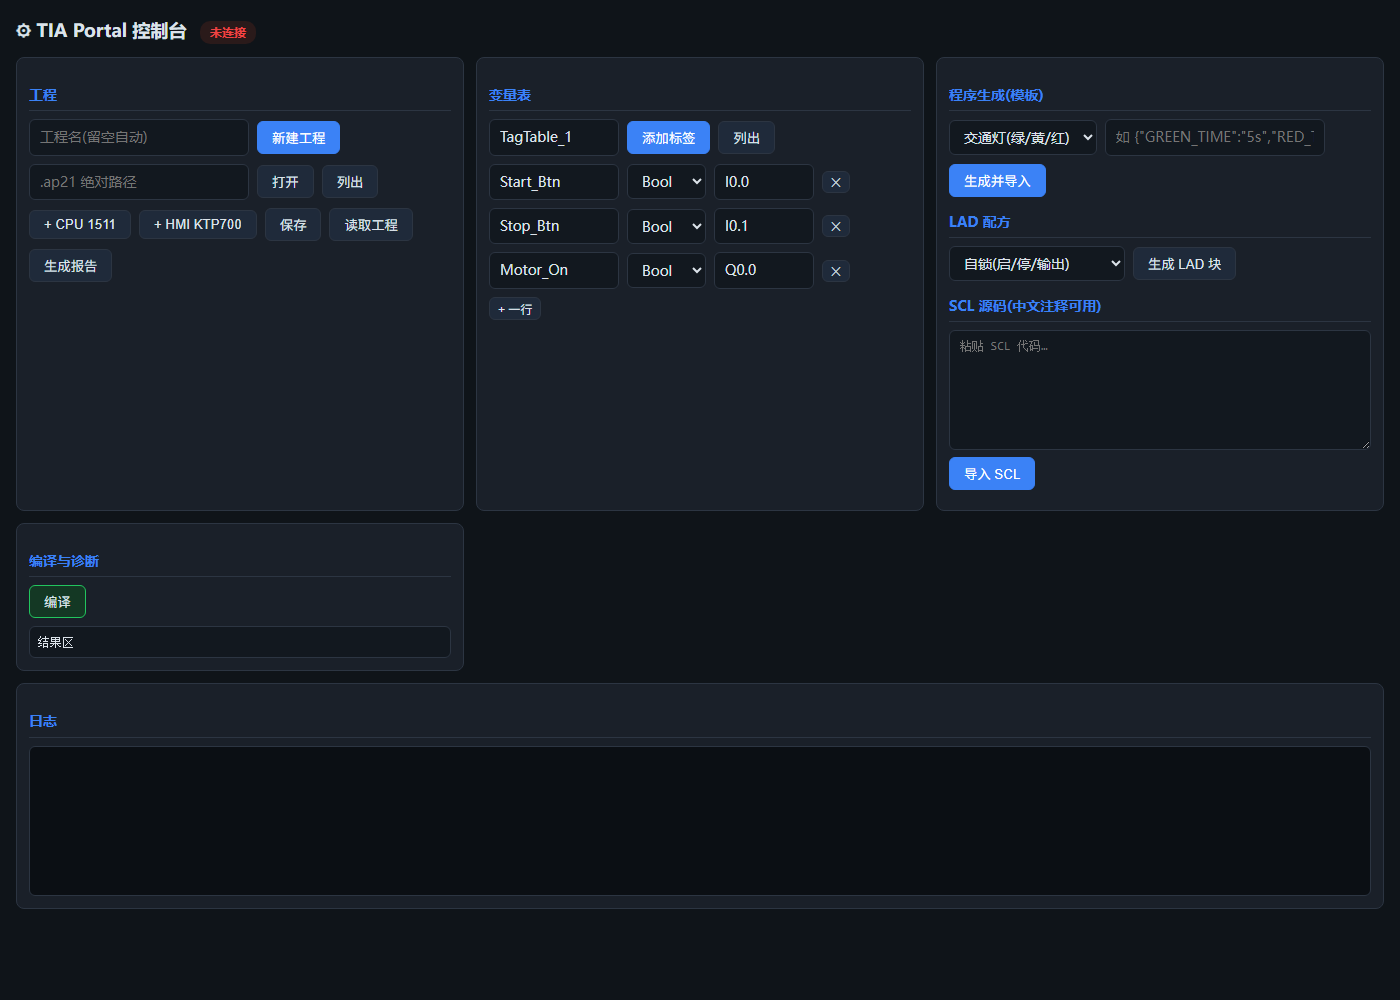
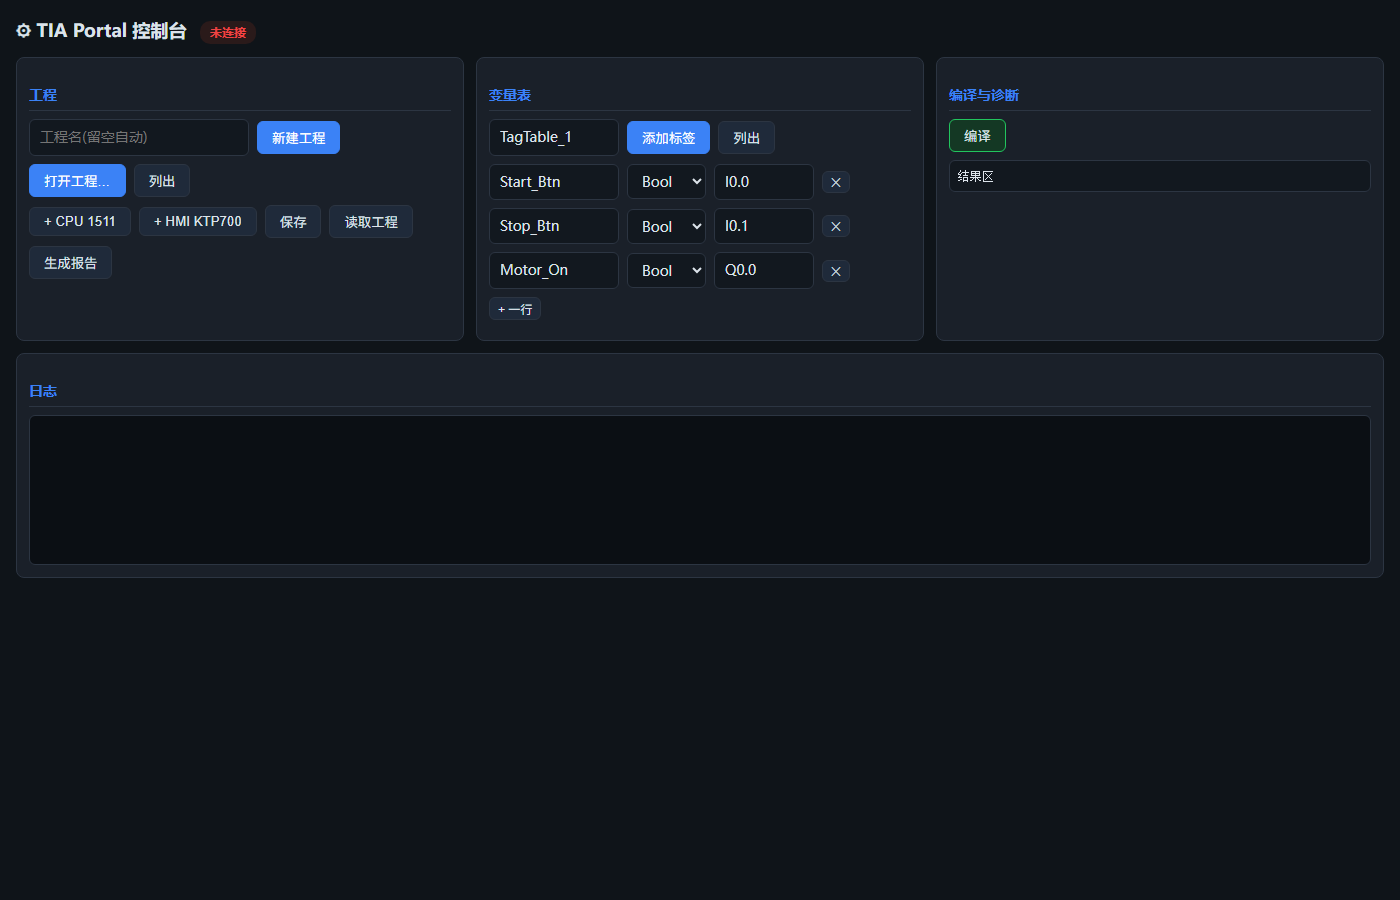
web: 面板人性化改造
- 去掉程序生成区(模板/LAD配方/SCL,交给 AI 会话)
- 打开工程改为文件选择对话框(上传到本机后打开)
- 新增 /api/upload 接口

diff --git a/web_ui/static/index.html b/web_ui/static/index.html
@@ -44,8 +44,8 @@
       <button class="primary" onclick="cmd('create-project',{projectName:val('projName'),outDir:OUT_DIR})">新建工程</button>
     </div>
     <div class="row">
-      <input id="projFile" placeholder=".ap21 绝对路径" class="wide">
-      <button onclick="cmd('open-project',{projectFile:val('projFile')})">打开</button>
+      <input type="file" id="projFilePicker" accept=".ap21" style="display:none">
+      <button class="primary" onclick="document.getElementById('projFilePicker').click()">打开工程…</button>
       <button onclick="cmd('list-projects',{})">列出</button>
     </div>
     <div class="row">
@@ -67,36 +67,6 @@
     </div>
     <div id="tagRows"></div>
     <div class="row"><button class="btn-mini" onclick="addTagRow()">+ 一行</button></div>
-  </div>
-
-  <!-- 程序生成 -->
-  <div class="panel">
-    <h2>程序生成(模板)</h2>
-    <div class="row">
-      <select id="tplSel">
-        <option value="traffic-light">交通灯(绿/黄/红)</option>
-        <option value="motor-rev">电机正反转互锁</option>
-        <option value="counter">计数分拣</option>
-      </select>
-      <input id="tplParams" placeholder='如 {"GREEN_TIME":"5s","RED_TIME":"8s"}' class="wide">
-      <button class="primary" onclick="genTemplate()">生成并导入</button>
-    </div>
-    <h2>LAD 配方</h2>
-    <div class="row">
-      <select id="ladRecipe">
-        <option value="self_lock">自锁(启/停/输出)</option>
-        <option value="blink">闪烁(使能/输出/周期)</option>
-        <option value="contact_coil">单触点输出</option>
-        <option value="set">置位</option>
-        <option value="reset">复位</option>
-        <option value="compare">比较</option>
-        <option value="arith">算术</option>
-      </select>
-      <button onclick="genLad()">生成 LAD 块</button>
-    </div>
-    <h2>SCL 源码(中文注释可用)</h2>
-    <textarea id="sclCode" placeholder="粘贴 SCL 代码…"></textarea>
-    <div class="row"><button class="primary" onclick="importScl()">导入 SCL</button></div>
   </div>
 
   <!-- 编译与读取 -->
@@ -163,35 +133,25 @@ async function addTags() {
   await cmd('add-tags', {table: val('tagTable'), tags});
 }
 
-async function genTemplate() {
-  let params = {};
-  try { params = JSON.parse(val('tplParams') || '{}'); } catch(e) {}
-  await cmd('gen-template', {template: val('tplSel'), params});
-}
-
-async function genLad() {
-  // 简化:自锁/闪烁走完整 spec,其余用配方网络
-  const recipe = val('ladRecipe');
-  let spec;
-  if (recipe === 'self_lock') {
-    spec = {type:'FB', name:'FB_SelfLock', number:21001, comment:'启停自锁', interface:{input:[{name:'bStart',datatype:'Bool'},{name:'bStop',datatype:'Bool'}],output:[{name:'qOut',datatype:'Bool'}]}, networks:[{title:'N1 自锁',recipe:'self_lock',args:{start:'bStart',stop:'bStop',output:'qOut'}}]};
-  } else if (recipe === 'blink') {
-    spec = {type:'FB', name:'FB_Blink', number:21002, comment:'LED 闪烁', interface:{input:[{name:'bEnable',datatype:'Bool'}],output:[{name:'bLed',datatype:'Bool'}],static:[{name:'tonB',datatype:'TON_TIME'}]}, networks:[{title:'N1 闪烁',recipe:'blink',args:{enable:'bEnable',output:'bLed',ton:'tonB',period:'T#500ms'}}]};
-  } else {
-    alert('该配方请用 gen-lad spec(见文档),或选自锁/闪烁');
-    return;
+// 打开工程:文件选择器 → 上传到本机 → 打开
+document.getElementById('projFilePicker').addEventListener('change', async (e) => {
+  const f = e.target.files && e.target.files[0];
+  if (!f) return;
+  const resultEl = document.getElementById('result');
+  resultEl.innerHTML = '<span class="warn">上传工程文件…</span>';
+  try {
+    const fd = new FormData();
+    fd.append('file', f);
+    const r = await fetch('/api/upload', {method:'POST', body: fd});
+    const d = await r.json();
+    if (!d.ok) throw new Error(d.error || '上传失败');
+    await cmd('open-project', {projectFile: d.path});
+  } catch(err) {
+    resultEl.innerHTML = '<span class="err">打开失败: ' + err + '</span>';
+  } finally {
+    e.target.value = '';
   }
-  await cmd('gen-lad', {spec, outDir: OUT_DIR + '/lad'});
-}
-
-async function importScl() {
-  const code = document.getElementById('sclCode').value;
-  if (!code.trim()) return alert('请粘贴 SCL 代码');
-  const name = (code.match(/FUNCTION_BLOCK\s+"([^"]+)"/) || [,'SCL_Import'])[1];
-  const resp = await fetch('/api/save-scl', {method:'POST', headers:{'Content-Type':'application/json'}, body: JSON.stringify({name, code})});
-  if (!resp.ok) return alert('保存源码失败');
-  await cmd('import-scl', {sclFile: OUT_DIR + '/scl/' + name + '.scl'});
-}
+});
 
 async function refreshStatus() {
   try {

diff --git a/web_ui/server.py b/web_ui/server.py
@@ -70,6 +70,46 @@ class Handler(BaseHTTPRequestHandler):
         self._send(404, b'{"error":"not found"}')
 
     def do_POST(self):
+        if self.path == "/api/upload":
+            # 前端文件选择器拿到的是 fakepath,文件需经上传接口落到本机再打开
+            try:
+                length = int(self.headers.get("Content-Length", 0))
+                ctype = self.headers.get("Content-Type", "")
+                import re
+                m = re.search(r"boundary=([^;]+)", ctype)
+                if not m:
+                    raise ValueError("not multipart")
+                body = self.rfile.read(length)
+                boundary = ("--" + m.group(1)).encode()
+                upload_dir = Path(OUT_DIR) / "uploads"
+                upload_dir.mkdir(parents=True, exist_ok=True)
+                saved = None
+                for part in body.split(boundary):
+                    if b'filename="' not in part:
+                        continue
+                    header_end = part.find(b"\r\n\r\n")
+                    if header_end < 0:
+                        continue
+                    filename = re.search(rb'filename="([^"]+)"', part[:header_end])
+                    if not filename:
+                        continue
+                    content = part[header_end + 4:]
+                    if content.endswith(b"\r\n"):
+                        content = content[:-2]
+                    name = filename.group(1).decode("utf-8", "replace")
+                    if not name.lower().endswith(".ap21"):
+                        continue
+                    target = upload_dir / name
+                    target.write_bytes(content)
+                    saved = str(target)
+                    break
+                if not saved:
+                    raise ValueError("no .ap21 file in upload")
+                log(f"⬆ 上传工程文件: {saved}")
+                self._send(200, json.dumps({"ok": True, "path": saved}, ensure_ascii=False).encode("utf-8"))
+            except Exception as ex:
+                self._send(400, json.dumps({"ok": False, "error": str(ex)}, ensure_ascii=False).encode("utf-8"))
+            return
         if self.path == "/api/save-scl":
             try:
                 length = int(self.headers.get("Content-Length", 0))
